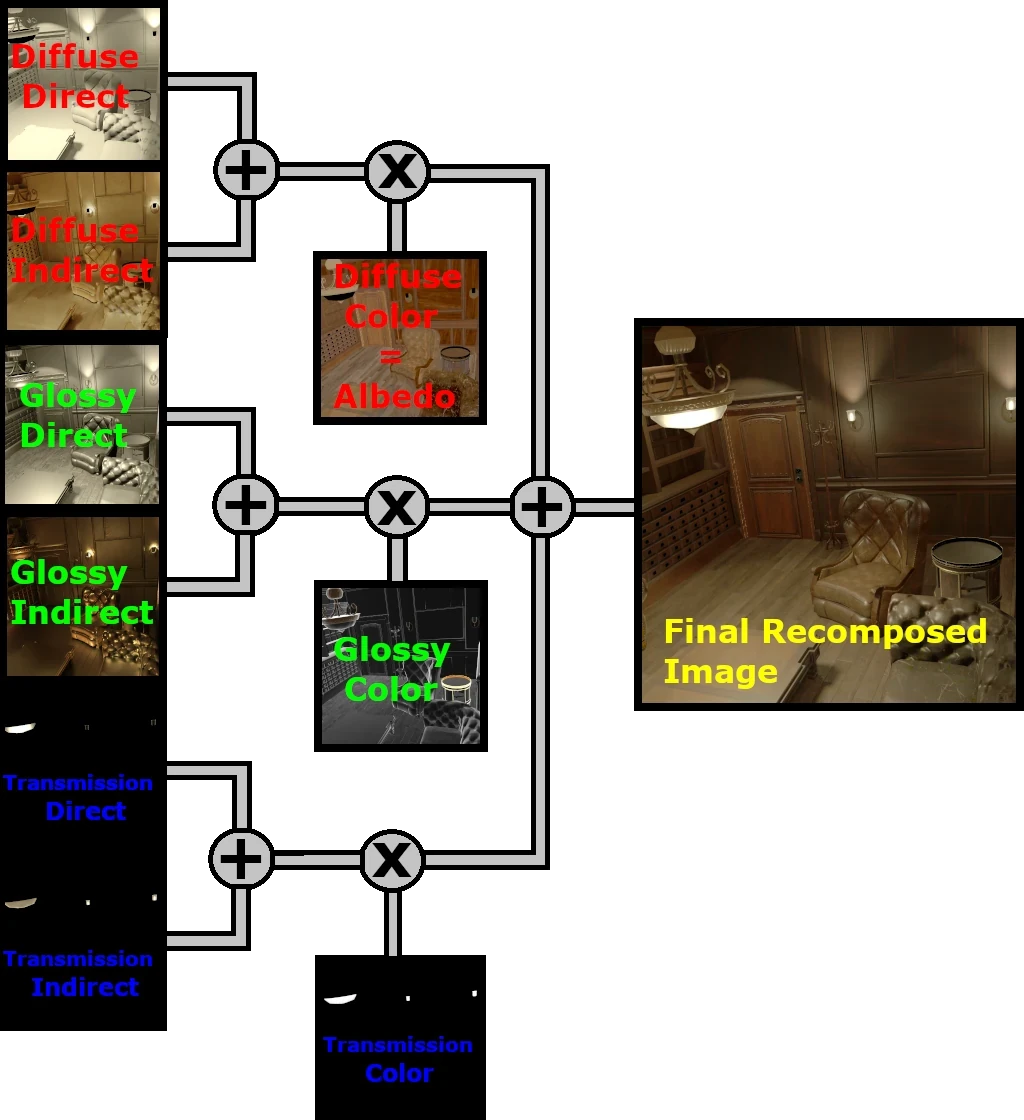
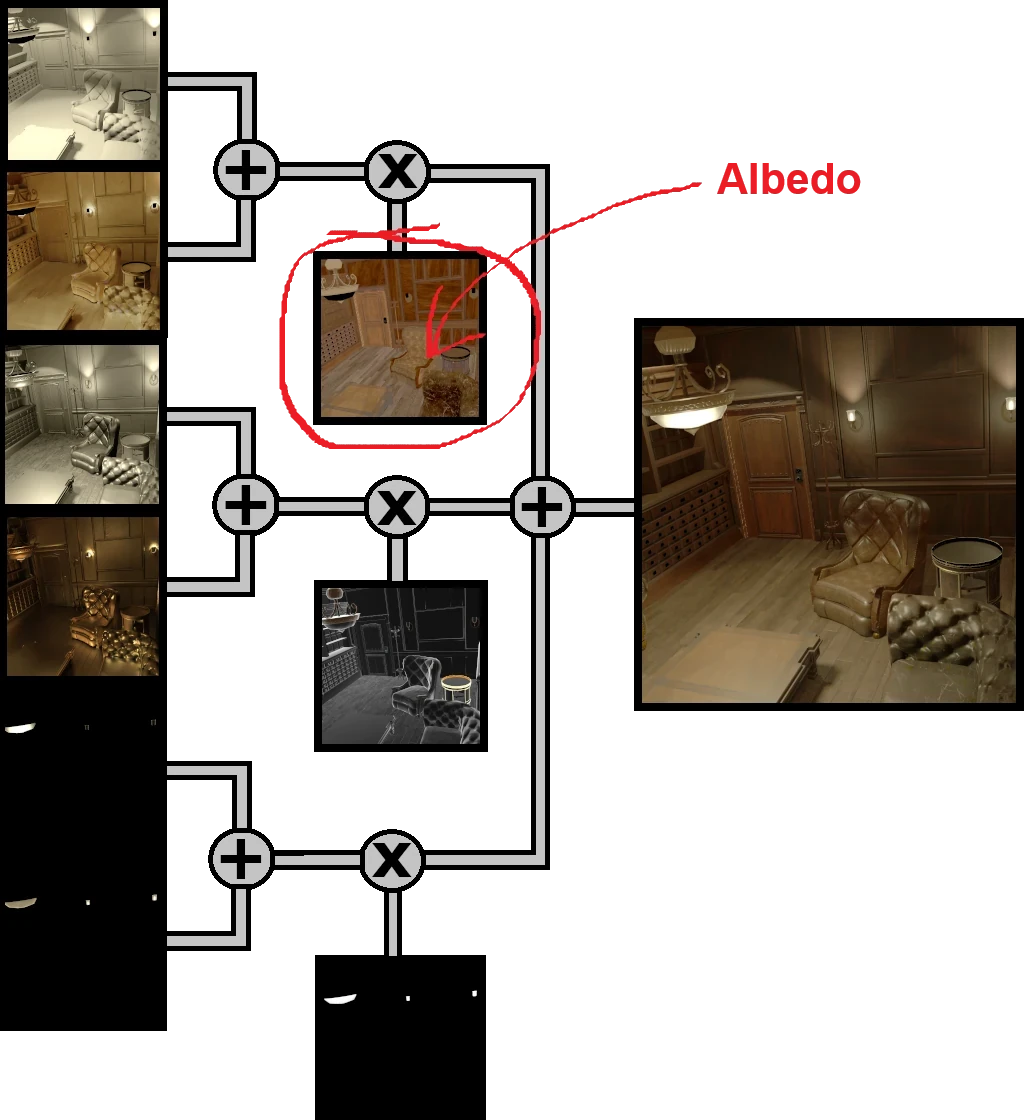
WIP OpenRE : Better schemas

diff --git a/public/projects/open_re/index.html b/public/projects/open_re/index.html
@@ -25,7 +25,7 @@
 
 
 
-<meta name="generator" content="Hugo 0.137.0">
+<meta name="generator" content="Hugo 0.140.2">
 
     
     <meta property="og:url" content="http://localhost:1313/projects/open_re/">
@@ -209,11 +209,8 @@ stroke-linejoin="round" class="feather feather-home">
 <p>Lorsque j&rsquo;ai voulu développer mon propre jeu en caméra fixe, j’ai rapidement réalisé une chose : les outils et ressources disponnibles sur le sujet sont rares. Certes, on trouve quelques tutoriels pour gérer les caméras ou implémenter les déplacements du joueur. Mais je n&rsquo;ai pas trouvé de réponse à la question qui m&rsquo;intéresse réèlement : <em>&ldquo;Comment intégrer des éléments interactifs dans des décor précalculés ?&rdquo;</em></p>
 <p>J&rsquo;ai donc commencé à bricoler de mon côté pour trouver une solution à ce problème et je pense avoir un début de réponse :
 
-
-    
     <div style="position: relative; padding-bottom: 56.25%; height: 0; overflow: hidden;">
-      <iframe allow="accelerometer; autoplay; clipboard-write; encrypted-media; gyroscope; picture-in-picture; web-share" allowfullscreen="allowfullscreen" loading="eager" referrerpolicy="strict-origin-when-cross-origin" src="https://www.youtube.com/embed/ok0o0HhgfeY?autoplay=0&controls=1&end=0&loop=0&mute=0&start=0" style="position: absolute; top: 0; left: 0; width: 100%; height: 100%; border:0;" title="YouTube video"
-      ></iframe>
+      <iframe allow="accelerometer; autoplay; clipboard-write; encrypted-media; gyroscope; picture-in-picture; web-share" allowfullscreen="allowfullscreen" loading="eager" referrerpolicy="strict-origin-when-cross-origin" src="https://www.youtube.com/embed/ok0o0HhgfeY?autoplay=0&amp;controls=1&amp;end=0&amp;loop=0&amp;mute=0&amp;start=0" style="position: absolute; top: 0; left: 0; width: 100%; height: 100%; border:0;" title="YouTube video"></iframe>
     </div>
 </p>
 <p>Oui je sais, cette scène n&rsquo;a aucun sens. Soyez indulgent, j&rsquo;ai dis que c&rsquo;était un début. Et puis je trouve ces T-Poses magnifiques (pas vous ?). Plus serieusement, ce qu&rsquo;il est important de noté dans cette vidéo, c&rsquo;est que les seuls models rendus en temps réèl sont les personnages. Tout le reste - planché, murs, plafond, mobilier, props en tout genre - est en réalité une image précalculée.</p>
@@ -227,7 +224,7 @@ stroke-linejoin="round" class="feather feather-home">
 </ul>
 <p>La maturité et la popularité de ces deux logiciels en font des choix solides. Ils sont aussi open-source, ce qui s&rsquo;aligne parfaitement avec la philosophie d&rsquo;OpenRE : promouvoir une technologie accessible et ouverte à tous. L’open-source offre également une certaine sécurité qu&rsquo;il est impossible d&rsquo;avoir avec des solutions propriétaires. En effet, comme le rappellent certains evenements récents, placer son capital technologique entre les mains d&rsquo;une entreprise à but lucratif n&rsquo;est pas sans risques.</p>
 <p>Sur le plan pratique, Blender et Godot se complètent très bien. Godot prend en charge nativement les scènes créées dans Blender, ce qui simplifie la synchronisation entre les deux environnements. Cette compatibilité devrait nous aider réduire les manipulations fastidieuses et sources d&rsquo;erreur.</p>
-<p><img alt="Même &ldquo;Epic Handshake&rdquo; illustrant que Godo + Blender = un monde meilleur" src="/projects/open_re/images/handshake.opti.webp"></p>
+<p><img src="/projects/open_re/images/handshake.opti.webp" alt="Même &ldquo;Epic Handshake&rdquo; illustrant que Godo &#43; Blender = un monde meilleur"></p>
 <p>Côté scripting, j’ai choisi de bousculer mes habitudes en optant pour GDScript plutôt que C#. Pourquoi ce choix ? Tout simplement parce que GDScript est supporté par toutes les versions de Godot, contrairement à C#, qui nécessite la version .NET. Cette flexibilité permettra à OpenRE de rester accessible au plus grand nombre. Et ce sera l’occasion pour moi d&rsquo;apprendre un nouveau langage.</p>
 <p>Si comme moi vous préférez le C#, soyer rassurés ! Vous n&rsquo;aurez besoin de GDScript que si vous souhaitez modifier le plugin OpenRE lui même. Pour développer votre jeu, vous pourrez utiliser le langage de votre choix.</p>
 <h2 id="part-ii--principe-général">Part II : Principe général</h2>
@@ -236,10 +233,10 @@ stroke-linejoin="round" class="feather feather-home">
 <p>Le monde <em>déterministe</em> est créé dans Blender. C&rsquo;est de lui que seront tirés les arrière plans précalculés. On pourrait, de manière un peu reductrice, dire qu’il représente la partie <em>statique</em> de la scène. Je préfère éviter ce terme car il est déjà utilisé par les moteurs de jeu ce qui prète à confusion. De plus il n&rsquo;est pas tout a fait exacte en l&rsquo;occurence.</p>
 <p>En effet, c&rsquo;est totalement hors scope pour une V1. Mais il se pourrait qu&rsquo;un jour, OpenRE supporte des arrière plans animés. On pourrait alors imaginer des petites boucle dans lesquelles le vent agite des rideaux ou de la vegétation. Ou encore des voitures qui circulent dans les rues la nuit, illuminant les allentours à chaque passage. Parler d&rsquo;éléments &ldquo;statiques&rdquo; dans ce context serait tout simplement incorrect.</p>
 <p>Pour l&rsquo;heure, le terme <em>déterministe</em> désigne effectivement ce que l&rsquo;on qualifie de &ldquo;statique&rdquo; dans un moteur de jeu (architectures, meubles, objets inanimés, etc.). Mais cela pourrait englober bien plus dans le futur. La seule limite réèlement infranchissable, c&rsquo;est que ce monde ne pourra jamais dépendre des actions du joueur ou d&rsquo;éléments de gameplay aléatoirs. Car bien entandu, au moment de génèrer les arrière plans, ces évenements ne sont pas encore connus.</p>
-<p><img alt="Monde déterministe édité dans Blender" src="/projects/open_re/images/blender-det-world.opti.webp"></p>
+<p><img src="/projects/open_re/images/blender-det-world.opti.webp" alt="Monde déterministe édité dans Blender"></p>
 <h4 id="le-monde-intéractif-godot-">Le monde intéractif (Godot) :</h4>
 <p>De son côté, le monde interactif est implémenté dans Godot. Il comprend tout ce qui relève du gameplay : personnages, véhicules contrôlables, objets manipulables, etc. Là encore, j’évite de le qualifier de <em>dynamique</em> pour éviter la confusion avec la terminologie des moteurs de jeu.</p>
-<p><img alt="Monde interactif édité dans Godot" src="/projects/open_re/images/godot-int-world.opti.webp"></p>
+<p><img src="/projects/open_re/images/godot-int-world.opti.webp" alt="Monde interactif édité dans Godot"></p>
 <p>En pratique, ce monde sera relativement vide comparé au monde déterministe. En effet, dans la plupart des jeux, les éléments interactifs représentent une quantité de géométrie beaucoup moins importante que les environnements. Cela signifie que dans le cas général, les ressources graphiques sont majoritairement consommées par le monde déterministe.</p>
 <p>OpenRE s&rsquo;abstrait en grande partie de cette charge de calcul en précalculant la partie déterministe dans Blender (c&rsquo;est là tout le principe). Cela devrait libérer pas mal de ressources pour la partie interactive. Théoriquement, nous pourront donc être plus généreux en détails, lumières et effets visuels.</p>
 <h4 id="la-fusion-des-mondes-">La fusion des mondes :</h4>
@@ -269,8 +266,7 @@ stroke-linejoin="round" class="feather feather-home">
 </ul>
 <p>Notez que le &rsquo;s&rsquo; à &ldquo;images&rdquo; n&rsquo;est pas une faute de frappe. L&rsquo;arrière plan exporté ne sera pas directement le rendu final. En effet, ce dernier sera décomposé en une serie d&rsquo;images représentant chacune des données spécifiques : profondeur, normales, couleur etc.</p>
 <p>Ainsi lors de l&rsquo;exectution, les caméra interactives seront en mesure de composer ce qu&rsquo;elles capturent avec ces données. Sans intervention supplémentaire de la part de l&rsquo;utilisateur, les deux monde seront fusionnés de manière quasi-indicernable : ils s&rsquo;occluderont l&rsquo;un l&rsquo;autre naturellement et leur éclairage sera uniforme et cohérent.</p>
-<p>[TODO Refaire]
-<img alt="Diagramme illustrant le fonctionnement général de OpenRE" src="/projects/open_re/images/OpenRE_diagram.webp"></p>
+<p><img src="/projects/open_re/images/OpenRE_diagram.webp" alt="Diagramme illustrant le fonctionnement général de OpenRE"></p>
 <p>Evidement, il serait trop fastidieux d&rsquo;effectuer toutes ces étapes à la main, pour chauque point de vu, à chaque fois que quelque chose change dans la scène. Pour que la technologie soit exploitable, OpenRE devra être capable d&rsquo;automatiser tout cela.</p>
 <h4 id="limitations--todo-réécrire">Limitations : &lt;TODO Réécrire&gt;</h4>
 <p>Malgré ses avantages, cette approche pourrait entraîner des incompatibilités avec certaines fonctionnalités graphiques natives de Godot. Le cas echéant, OpenRE proposera des solutions alternatives à travers son plugin. Vous pourrez notamment compter sur :</p>
@@ -290,7 +286,7 @@ stroke-linejoin="round" class="feather feather-home">
 <li><strong>1. geometry pass :</strong> cette première étape vise à produire une collection de textures qu&rsquo;on appel le G-Buffer (Geometry Buffer). Ces textures encodent dans leur chanels RGB des donnée décrivant les propriétés géométriques de la scène en <em>screen space</em> (position, normal, albedo etc&hellip;).</li>
 <li><strong>2. deffered shading pass :</strong> pour obtenir l&rsquo;image final, il suffit alors d&rsquo;accumuler les contributions lumineuse de la scène sur chaque pixel. Ce qui n&rsquo;est pas très compliqué étant donné que le G-Buffer nous fourni toutes les données nécessaires en chaque point de l&rsquo;écran.</li>
 </ul>
-<p><img alt="Schema illustrant le fonctionnement d&rsquo;un deferred renderer" src="/projects/open_re/images/deferred_schema_arrows.opti.webp"></p>
+<p><img src="/projects/open_re/images/deferred_schema_arrows.opti.webp" alt="Schema illustrant le fonctionnement d&rsquo;un deferred renderer"></p>
 <p>Comme évoqué dans la partie précendente, OpenRE sépare la scène en deux parties distinctes. Pour rendre une frame, OpenRE aura besoin d&rsquo;un G-Buffer pour chacune de ces parties. On aura donc :</p>
 <ul>
 <li>le G-Buffer intéractif qui sera construit à la volée dans Godot</li>
@@ -316,28 +312,27 @@ stroke-linejoin="round" class="feather feather-home">
       <tr>
           <td style="text-align: center"><strong>Depth</strong></td>
           <td style="text-align: left">Encode la profondeur de chaque pixel. Permetra aux mondes de s&rsquo;occluder correctement. La position du pixel sera également déduite de cette donnée.</td>
-          <td style="text-align: center"><img alt="Depht map" src="/projects/open_re/images/D_Depth_square.opti.webp"></td>
+          <td style="text-align: center"><img src="/projects/open_re/images/D_Depth_square.opti.webp" alt="Depht map"></td>
       </tr>
       <tr>
           <td style="text-align: center"><strong>Normal</strong></td>
           <td style="text-align: left">Décrit l&rsquo;orientation des surfaces. Cette donnée interviendra dans la calcul de l&rsquo;éclairage</td>
-          <td style="text-align: center"><img alt="Normal map" src="/projects/open_re/images/D_Normal_square.opti.webp"></td>
+          <td style="text-align: center"><img src="/projects/open_re/images/D_Normal_square.opti.webp" alt="Normal map"></td>
       </tr>
       <tr>
           <td style="text-align: center"><strong>ORM</strong></td>
           <td style="text-align: left">Regroupe des données additionnelles nécessaire au rendu PBR (Ambiant Occlusion, Roughtness, Metalness)</td>
-          <td style="text-align: center"><img alt="ORM map" src="/projects/open_re/images/D_ORM_square.opti.webp"></td>
+          <td style="text-align: center"><img src="/projects/open_re/images/D_ORM_square.opti.webp" alt="ORM map"></td>
       </tr>
       <tr>
           <td style="text-align: center"><strong>diverses maps d&rsquo;illumination</strong></td>
           <td style="text-align: left">Information relative à la lumière</td>
-          <td style="text-align: center"><img alt="Collection de maps d&rsquo;illumination" src="/projects/open_re/images/illuminationMaps.opti.webp"></td>
+          <td style="text-align: center"><img src="/projects/open_re/images/illuminationMaps.opti.webp" alt="Collection de maps d&rsquo;illumination"></td>
       </tr>
   </tbody>
 </table>
 <p>Si vous mangez du G-Buffer tous les matins au p&rsquo;tit dej&rsquo;, vous vous demandez peut être où est passée la map d&rsquo;albedo ? Ou à quoi correspondent ces fameuses <em>diverses maps d&rsquo;illumination</em> ? Il faut savoir que le modèle de Cycles est plus complexe que ce à quoi le temps réèl nous a habitué. En sortie, on obtient neuf maps d&rsquo;illumination différentes. En réalité, l’une de ces map correspond à l’albedo. Mais pour recomposer l’image finale, nous auront besoin des neuf.</p>
-<p>[TODO Refaire]
-<img alt="Formule de recomposition de l&rsquo;image générée par Cycle" src="/projects/open_re/images/cycle_recompose.opti.webp"></p>
+<p><img src="/projects/open_re/images/cycle_recompose.opti.webp" alt="Formule de recomposition de l&rsquo;image générée par Cycle"></p>
 <p>On pourrait se contanter de n&rsquo;intégrer que l&rsquo;albedo au DG-Buffer. Mais il faudrait alors recalculer tout l&rsquo;éclairage côté Godot. On perdrait à la fois la qualité visuelle de Cycles et énormement de temps de calcul. Les neuf maps sont donc exportées pour permettre une recomposition directe lorsque c&rsquo;est approprié (voire plus loin).</p>
 <h4 id="ig-buffer--le-g-buffer-du-monde-interactif-todo-réécrire">IG-Buffer : le G-Buffer du monde interactif &lt;TODO Réécrire&gt;</h4>
 <p>Si Godot implémentait un deferred renderer, on pourrait piocher les maps qui nous intéressent directement dans son G-Buffer. Mais malheureusement pour nous, le renderer officiel de Godot est un forward. Il n&rsquo;y a donc pas de G-Buffer.</p>
@@ -347,7 +342,7 @@ stroke-linejoin="round" class="feather feather-home">
 <h5 id="1-choix-du-g-buffer-">1. Choix du G-Buffer :</h5>
 <p>Une première question évidente se pose : &ldquo;dans quel G-Buffer récupérer les données ?&rdquo; C&rsquo;est en réalité assez simple. La comparaison des Depth Maps nous permet de savoir quel monde occlude l&rsquo;autre pour chaque pixel de l&rsquo;écran. Il suffit donc de choisir le G-Buffer du monde qui est visible à la coordonnée du pixel considéré.</p>
 <p>[TODO Ajouter légende]
-<img alt="Visuel de debug illustrand l&rsquo;occlusion mutuelle des mondes" src="/projects/open_re/images/cigar_room_loop_worlds_occlusion_debug_with_ref.webp"></p>
+<img src="/projects/open_re/images/cigar_room_loop_worlds_occlusion_debug_with_ref.webp" alt="Visuel de debug illustrand l&rsquo;occlusion mutuelle des mondes"></p>
 <h5 id="2-différents-modes-de-calcul-de-la-lumière-">2. Différents modes de calcul de la lumière :</h5>
 <p>Le second point est un peu plus subtile. Je ne l&rsquo;ai pas précisé jusqu&rsquo;ici, mais les sources de lumière aussi peuvent être déterministes (lampadaires, feux de cheminée, soleil&hellip;) ou interactives (lampe torche, flash d&rsquo;un tir, phares de voiture). Cela a deux conséquences :</p>
 <ul>
@@ -384,7 +379,7 @@ stroke-linejoin="round" class="feather feather-home">
   </tbody>
 </table>
 <p>[TODO Recaputurer avec les bonnes couleurs]
-<img alt="Visuel de debug illustrant les différents modes de calcul de la lumière" src="/projects/open_re/images/cigar_room_loop_light_modes_debug_with_ref.webp"></p>
+<img src="/projects/open_re/images/cigar_room_loop_light_modes_debug_with_ref.webp" alt="Visuel de debug illustrant les différents modes de calcul de la lumière"></p>
 <h2 id="part-iv--phases-de-développement">Part IV : Phases de développement</h2>
 <h4 id="proof-of-concept-poc">Proof of Concept (POC)</h4>
 <p>Le but de cette première étape est de débrousailler le terrain pour me faire une première idée du potentiel d&rsquo;OpenRE. J&rsquo;ai déjà pas mal avancé là dessus, les images de la scène d&rsquo;exemple que vous pouvez voire dans cet article sont issues de ce POC. Mon objectif ici n&rsquo;est pas l&rsquo;optimisation ou l&rsquo;élegance du code. Je cherche simplement à identifier les verroux techniques et à m&rsquo;assurer qu&rsquo;il est possible de les faire sauter (à grand coup de débrouille et d&rsquo;improvisation la plupart du temps).</p>
@@ -401,7 +396,7 @@ stroke-linejoin="round" class="feather feather-home">
 <li>des scripts &amp; utilitaires complémentaires</li>
 </ul>
 <p>Contrairement au POC, le SDK sera open-source et disponible sur un dépôt public. Rien ne me ferait plus plaisir que de savoir qu’OpenRE est utilisé dans vos créations. Si vous décidez de l’adopter, n&rsquo;hésitez pas à me faire savoir sur quoi vous travaillez. Cela m&rsquo;interesse au plus haut point !</p>
-<p>Dans un premier temps, je n&rsquo;accepterai probablement pas de contributions spontanées, mais vos retours, suggestions et rapports de bugs seront toujours les bienvenus. N&rsquo;hésitez pas à les partager sur le <a href="/">GitHub du projet</a>.</p>
+<p>Dans un premier temps, je n&rsquo;accepterai probablement pas de contributions spontanées, mais vos retours, suggestions et rapports de bugs seront toujours les bienvenus. N&rsquo;hésitez pas à les partager sur le <a href="">GitHub du projet</a>.</p>
 <h5 id="devlogs--1">Devlogs :</h5>
 <p><em>Cette phase n&rsquo;a pas encore commencé</em></p>
 <h4 id="une-démo-jouable">Une Démo Jouable</h4>

diff --git a/public/posts/i_love_fixed_cams/index.html b/public/posts/i_love_fixed_cams/index.html
@@ -68,7 +68,7 @@
     </script>
 
 
-<meta name="generator" content="Hugo 0.137.0">
+<meta name="generator" content="Hugo 0.140.2">
 
     
     <meta property="og:url" content="http://localhost:1313/posts/i_love_fixed_cams/">
@@ -251,12 +251,12 @@ stroke-linejoin="round" class="feather feather-home">
 <h2 id="introduction--sweet-sweet-90s">Introduction : Sweet sweet 90&rsquo;s</h2>
 <p>Depuis toujours, j&rsquo;éprouve une fascination certaine pour les jeux en <strong>caméra fixe</strong>. C&rsquo;est avec des titres comme <em>Alone in the Dark</em>, <em>Final Fantasy</em> et bien sûr <em>Resident Evil</em> que j&rsquo;ai grandi. Dire que ces licences ont <strong>marqué mon enfance</strong> serait un euphémisme. C&rsquo;est une véritable passion qui m&rsquo;a pris dans les années 90 et qui ne m&rsquo;a plus quitté. Pour tout vous dire, j&rsquo;ai même réinstallé <em>Resident Evil Rebirth</em> pas plus tard que la semaine dernière, alors que le remake de <em>Silent Hill 2</em> vient tout juste de sortir et que celui de <em>Dead Space</em> traîne dans ma &ldquo;<em>To-Play list</em>&rdquo; depuis près d&rsquo;un an. Parfois, je culpabilise un peu de la manière dont je consacre le peu de temps de jeu dont je dispose maintenant que je suis un adulte responsable (Oui, bon&hellip; ça va&hellip; j&rsquo;ai un chat, ça compte ?). Mes collègues ne manquent pas de me taquiner avec ça. Ils me traitent de &ldquo;boomer&rdquo; et me reprochent d&rsquo;être un peu trop tourné vers le passé.</p>
 <p>Peut-être qu&rsquo;ils n&rsquo;ont pas complètement tort, mais je pense que la réalité est un peu plus complexe. Si je suis <strong>devenu un retro-gamer</strong>, ce n&rsquo;est pas parce que &ldquo;le jeu vidéo c&rsquo;était mieux avant !&rdquo;. C&rsquo;est un médium extraordinaire, qui n’a rien à envier à d&rsquo;autres formes d’art, qui ne cesse d&rsquo;évoluer, se réinvente en permanence, et c&rsquo;est une chose dont je me réjouis. Pourtant, ces &ldquo;vieilleries&rdquo; parviennent encore à capturer mon attention, devançant même des monuments acclamés par la critique que j’attendais depuis des mois. Si ces chefs-d&rsquo;œuvre ont un tel pouvoir sur moi, c&rsquo;est parce qu&rsquo;ils ont <strong>quelque chose d&rsquo;unique</strong>. Quelque chose qui me parle et que je n&rsquo;arrive pas à retrouver dans les productions actuelles, si qualitatives soient-elles.</p>
-<p><img alt="Image stylisée d&rsquo;une chambre d&rsquo;ado des années 90" src="/posts/i_love_fixed_cams/images/sweet90s.opti.webp"></p>
+<p><img src="/posts/i_love_fixed_cams/images/sweet90s.opti.webp" alt="Image stylisée d&rsquo;une chambre d&rsquo;ado des années 90"></p>
 <p>Il faut dire que cette famille de jeux n&rsquo;a plus beaucoup d&rsquo;héritiers aujourd&rsquo;hui. À ma connaissance, le dernier représentant de sa lignée est <em>Resident Evil Zero</em>, sorti en 2002 sur GameCube. Et depuis, plus rien ou presque. C’est un peu comme si l’équivalent vidéoludique, d’un <strong>point de vue narratif</strong>, avait <strong>cessé d’exister</strong> comme ça, d’un coup. Hier, on avait des livres écrits à la première personne, et du jour au lendemain, pouf… on n’a plus que des narrateurs omniscients. En tant qu&rsquo;amateur de ce style de jeux, je ne peux m&rsquo;empêcher d&rsquo;y voir une certaine <strong>injustice</strong>. Mais ça ne fait pas non plus de moi un &ldquo;arriériste&rdquo;. Au contraire, ce que je regrette, en vérité, c&rsquo;est que cette branche du médium, si prometteuse, n’ait <strong>pas eu l’occasion d’évoluer</strong> pleinement et de réaliser son potentiel.</p>
 <p>Si vous avez tenu bon jusqu&rsquo;ici, merci pour votre patience et votre curiosité. Et si vous êtes prêt à poursuivre, je vous propose d&rsquo;explorer ensemble comment les caméras fixes sont apparues, pourquoi selon moi elles ont disparu, et pourquoi, à mon avis, on devrait continuer de faire des jeux avec.</p>
 <h2 id="part-i--casser-des-murs-à-grand-coups-de-design-">Part I : Casser des murs à grand coups de design !</h2>
 <p>Personne ne peut prétendre connaître tous les jeux vidéo sortis depuis la naissance du médium. Mais je vais quand même prendre le risque d’affirmer que la caméra fixe est <strong>née en 1992</strong> sur PC avec Alone in the Dark (et c’est un vrai risque, car si j’ai tort, ça fout en l’air la conclusion de cette partie). Ce qui est certain, en revanche, c’est qu’elle a connu son <strong>âge d’or</strong> sur la cinquième génération de consoles <strong>(PS1/N64/Saturn)</strong>, entre la fin des années 90 et le début des années 2000.</p>
-<p><img alt="Grille-pain-PS1 sur une table de petit-dèj" src="/posts/i_love_fixed_cams/images/PSToaster.opti.webp">
+<p><img src="/posts/i_love_fixed_cams/images/PSToaster.opti.webp" alt="Grille-pain-PS1 sur une table de petit-dèj">
 <em>Une authentique PS1 dans son habitat naturel</em></p>
 <p>Nous étions alors au début de l’ère de la 3D. Les machines, impressionnantes pour l’époque, se rapprocheraient d’un <strong>grille-pain</strong> connecté bas de gamme si on les jugeait avec nos standards actuels. Les GPU n’étaient pas programmables, la mémoire disponible ridicule… bref, les développeurs de cette époque étaient de véritables héros. Pour créer des jeux dignes de ce nom, ils devaient composer avec des <strong>limitations matérielles</strong> drastiques et adopter des stratégies d’optimisation parfois extrêmes.</p>
 <h4 id="ce-qui-ne-bouge-pas-te-rend-plus-fort">Ce qui ne bouge pas, te rend plus fort</h4>
@@ -266,7 +266,7 @@ stroke-linejoin="round" class="feather feather-home">
 <h4 id="plus-haut--plus-fort--plus-fixe-">Plus haut ! plus fort ! plus fixe !</h4>
 <p><strong>Renoncer à la mobilité</strong> du point de vue dans un jeu est un choix de design radical qui vient avec son lot de forces et de contraintes. On y reviendra. Cela dit, d’un point de vue purement technique, ce choix place les développeurs dans un cas particulier intéressant : les <strong>pixels</strong> de l’écran eux-mêmes <strong>deviennent une donnée statique</strong>.</p>
 <p>Dans ces conditions, le <strong>décor</strong> peut être <strong>rendu à l’avance</strong> en CGI (&ldquo;baké&rdquo;) sous forme d’une image 2D. Lors de l’exécution du jeu, il suffit d’afficher cette image en trompe-l’œil, sur laquelle viennent se superposer les éléments dynamiques rendus en temps réel. Résultat : l’environnement, qui monopolise habituellement la majeure partie des ressources, ne coûte plus que deux triangles et une texture. Le <strong>gain en performance</strong> est tout simplement stratosphérique.</p>
-<p><img alt="Prccess de composition fond static + geometry dynamique avec OpenRE" src="/posts/i_love_fixed_cams/images/openRE_rendering_annoted_brighter.opti.webp">
+<p><img src="/posts/i_love_fixed_cams/images/openRE_rendering_annoted_brighter.opti.webp" alt="Prccess de composition fond static &#43; geometry dynamique avec OpenRE">
 <em>(1) environnement statique (rendu à l&rsquo;avance avec Blender)</em><br>
 <em>(2) éléments dynamiques (rendu en temps réèl dans Godot)</em><br>
 <em>(3) Rendu finale (composé en temps réèl dans Godot avec <a href="/projects/open_re/">OpenRE</a>)</em></p>
@@ -275,16 +275,16 @@ stroke-linejoin="round" class="feather feather-home">
 <p>Là où je veux en venir, c’est qu’une petite dose d’ouverture d’esprit et de pensée hors du cadre a permis de créer des mondes et de raconter des histoires d’une richesse et d’une sophistication inimaginables pour une PS1. Et on ne le doit pas à un programmeur de génie, mais à la <strong>créativité d’un designer</strong>. Même si, en l&rsquo;occurrence, Frédérick Raynal, créateur de Alone in the Dark et de cette technique, est sans conteste les deux à la fois.</p>
 <h2 id="part-ii--le-colosse-aux-chenilles-dargile">Part II : Le Colosse aux chenilles d&rsquo;argile</h2>
 <p>Si vous avez déjà eu entre les mains un jeu en caméra fixe, vous savez certainement ce que sont les tank-controls. Dans le cas contraire, une petite explication s’impose. Il s’agit d’une modalité d’inputs où vous <strong>contrôlez l’avatar dans son référentiel</strong> plutôt que dans le vôtre. L&rsquo;axe vertical le déplace d&rsquo;avant en arrière tandis que l&rsquo;axe horizontal permet de le faire pivoter sur lui-même.</p>
-<p><img alt="Illustration humoristique des tank controls" src="/posts/i_love_fixed_cams/images/jill_tank.opti.webp"></p>
+<p><img src="/posts/i_love_fixed_cams/images/jill_tank.opti.webp" alt="Illustration humoristique des tank controls"></p>
 <p>Ce schéma de contrôle est <strong>impopulaire</strong> car il nécessite un petit temps d’adaptation. Il est fortement lié à la caméra fixe, car c’est le seul à ce jour qui permet de s’abstraire complètement des problématiques liées aux changements de référentiels soudains et répétés, inhérents au genre. Vous avez peut-être déjà une intuition de pourquoi, mais essayons de décortiquer un peu mieux le problème.</p>
 <h4 id="le-problème-sous-tous-les-angles">Le problème sous tous les angles</h4>
 <p>Si les <strong>caméras regardent dans le même sens</strong>, le problème est moindre. Dans ce cas, les changements de référentiels sont des translations, et la translation <strong>conserve les directions</strong>. L’orientation de l’avatar reste stable d’un écran à l’autre. Cela permet d’implémenter un schéma de contrôles &quot; naïf &ldquo;, où les mouvements de l’avatar suivent directement ceux du joystick.</p>
-<p><img alt="Illustration d&rsquo;un changements de plan avec caméra alignées" src="/posts/i_love_fixed_cams/images/FF8_parallel_cams.opti.webp">
+<p><img src="/posts/i_love_fixed_cams/images/FF8_parallel_cams.opti.webp" alt="Illustration d&rsquo;un changements de plan avec caméra alignées">
 <em>Conservation de l&rsquo;orientation dans le cas de caméras alignées (Environnement : DGU de FF8, Personnage incrusté : Jill de RE3)</em></p>
 <p>Mais en pratique, il sera difficile de respecter cette contrainte. La spécialité des caméras fixes est de permettre des environnements très détaillés. Si l’agencement de l’espace ne reflète pas ce niveau de détail, on <strong>intègre vite une dissonance</strong> : &quot; Il est bizarre ton manoir ! Pourquoi les pièces sont toutes les unes à la suite des autres ? &quot;</p>
 <p>Et même si l’on acceptait cette dissonance, on se priverait de toute la puissance artistique des caméras fixes (que de teasing ! On en reparlera aussi).</p>
 <p>On va donc devoir faire <strong>varier les angles</strong>, et c’est là que ça se complique. Si on fait ça, les directions ne sont plus conservées. <strong>L’orientation de l’avatar diffère</strong> d’un écran à l’autre.</p>
-<p><img alt="Illustration d&rsquo;un changements de plan avec caméra non-alignées" src="/posts/i_love_fixed_cams/images/FF8_non_parallel_cams.opti.webp">
+<p><img src="/posts/i_love_fixed_cams/images/FF8_non_parallel_cams.opti.webp" alt="Illustration d&rsquo;un changements de plan avec caméra non-alignées">
 <em>Décalage de l&rsquo;orientation dans le cas de caméras non alignées (Environnement : BGU de FF8, Personnage incrusté : Jill de RE3)</em></p>
 <p>Si on ne fait rien, le joueur devra adapter sa trajectoire à chaque transition de caméra. À moins d’être un ninja, cela se traduira par une <strong>imprécision</strong> significative dans ses déplacements. Pas pratique quand le gameplay exige d’esquiver des zombies dans des couloirs ! De plus, les changements de caméra étant fréquents, même avec de bons réflexes, ajuster sa direction toutes les cinq secondes peut <strong>briser l’immersion</strong>.</p>
 <p>Les tank-controls s’imposent alors comme une solution nécessaire. Passée une petite phase d’apprentissage, ils remplissent parfaitement leur rôle. Mais cet investissement imposé au joueur n’était déjà pas du goût de tout le monde à l’époque. Et aujourd’hui, c’est encore pire.</p>
@@ -300,10 +300,10 @@ stroke-linejoin="round" class="feather feather-home">
 <p>Le premier avantage est technique, et on l’a déjà évoqué : les caméras fixes permettent de s’affranchir des limitations matérielles pour tout ce qui est statique. En utilisant des arrière-plans précalculés, les level artists disposent d’un <strong>budget illimité en triangles, lumières et textures</strong> pour créer des environnements d&rsquo;un niveau de détail exceptionnel.</p>
 <p>Dans le même temps, ce procédé permet de libérer des ressources pour tout ce qui est dynamique : personnages, effets visuels ou animations en temps réel. En conséquence, les jeux en caméra fixe offrent souvent des <strong>visuels bien en avance sur leur époque</strong>. Prenons un instant pour illustrer ce point.</p>
 <p>En <strong>2001</strong>, le jeu vidéo, c&rsquo;était ça :</p>
-<p><img alt="Mozaïc de classics sortis en 2001" src="/posts/i_love_fixed_cams/images/mozaic2001classics.opti.webp">
+<p><img src="/posts/i_love_fixed_cams/images/mozaic2001classics.opti.webp" alt="Mozaïc de classics sortis en 2001">
 <em>De gauche à droite et de haut en bas : Max Payne, Jak and Daxter, GTA3, Grand Turismo 3, Halo: Combat Evolved et Final Fantasy X</em></p>
 <p>La <strong>même année</strong>, <em>Resident Evil Rebirth</em> sortait sur GameCube. Et ça ressemblait à ça :</p>
-<p><img alt="Mozaïc de captures issues de REmake" src="/posts/i_love_fixed_cams/images/mozaicREmake.opti.webp"></p>
+<p><img src="/posts/i_love_fixed_cams/images/mozaicREmake.opti.webp" alt="Mozaïc de captures issues de REmake"></p>
 <p>Ce jeu, vieux de 23 ans, tournait sur une console bien moins puissante que le smartphone sur lequel vous lisez peut-être cet article. Et pourtant, il <strong>reste crédible aujourd’hui</strong>, surpassant même visuellement une grande partie des innombrables jeux publiés chaque jour sur Steam. Maintenant, imaginez ce qu&rsquo;un AAA moderne pourrait accomplir avec cette technique sur du hardware actuel. Les <strong>perspectives sont vertigineuses !</strong></p>
 <p>Mais, aussi impressionnant que cela puisse être, ce n’est pas la plus grande force des caméras fixes. Leur véritable atout réside dans le contrôle artistique qu’elles offrent aux créateurs.</p>
 <h4 id="tailler-des-experiences-uniques">Tailler des experiences uniques</h4>

diff --git a/public/misc/reflection_capture/index.html b/public/misc/reflection_capture/index.html
@@ -25,7 +25,7 @@
 
 
 
-<meta name="generator" content="Hugo 0.137.0">
+<meta name="generator" content="Hugo 0.140.2">
 
     
     <meta property="og:url" content="http://localhost:1313/misc/reflection_capture/">

diff --git a/public/misc/static_lighting/index.html b/public/misc/static_lighting/index.html
@@ -25,7 +25,7 @@
 
 
 
-<meta name="generator" content="Hugo 0.137.0">
+<meta name="generator" content="Hugo 0.140.2">
 
     
     <meta property="og:url" content="http://localhost:1313/misc/static_lighting/">

diff --git a/public/misc/distance_field/index.html b/public/misc/distance_field/index.html
@@ -25,7 +25,7 @@
 
 
 
-<meta name="generator" content="Hugo 0.137.0">
+<meta name="generator" content="Hugo 0.140.2">
 
     
     <meta property="og:url" content="http://localhost:1313/misc/distance_field/">

diff --git a/public/posts/index.html b/public/posts/index.html
@@ -76,7 +76,7 @@
     </script>
 
 
-<meta name="generator" content="Hugo 0.137.0">
+<meta name="generator" content="Hugo 0.140.2">
 
     
     <meta property="og:url" content="http://localhost:1313/posts/">

diff --git a/public/en-us/pages/about/index.html b/public/en-us/pages/about/index.html
@@ -27,7 +27,7 @@
 
 
 
-<meta name="generator" content="Hugo 0.137.0">
+<meta name="generator" content="Hugo 0.140.2">
 
     
     <meta property="og:url" content="http://localhost:1313/en-us/pages/about/">

diff --git a/public/en-us/categories/index.html b/public/en-us/categories/index.html
@@ -27,7 +27,7 @@
 
 
 
-<meta name="generator" content="Hugo 0.137.0">
+<meta name="generator" content="Hugo 0.140.2">
 
     
     <meta property="og:url" content="http://localhost:1313/en-us/categories/">

diff --git a/public/en-us/404.html b/public/en-us/404.html
@@ -27,7 +27,7 @@
 
 
 
-<meta name="generator" content="Hugo 0.137.0">
+<meta name="generator" content="Hugo 0.140.2">
 
     
     <meta property="og:url" content="http://localhost:1313/en-us/404.html">

diff --git a/public/en-us/pages/index.html b/public/en-us/pages/index.html
@@ -27,7 +27,7 @@
 
 
 
-<meta name="generator" content="Hugo 0.137.0">
+<meta name="generator" content="Hugo 0.140.2">
 
     
     <meta property="og:url" content="http://localhost:1313/en-us/pages/">

diff --git a/public/pages/about/index.html b/public/pages/about/index.html
@@ -27,7 +27,7 @@
 
 
 
-<meta name="generator" content="Hugo 0.137.0">
+<meta name="generator" content="Hugo 0.140.2">
 
     
     <meta property="og:url" content="http://localhost:1313/pages/about/">

diff --git a/public/categories/index.html b/public/categories/index.html
@@ -27,7 +27,7 @@
 
 
 
-<meta name="generator" content="Hugo 0.137.0">
+<meta name="generator" content="Hugo 0.140.2">
 
     
     <meta property="og:url" content="http://localhost:1313/categories/">
